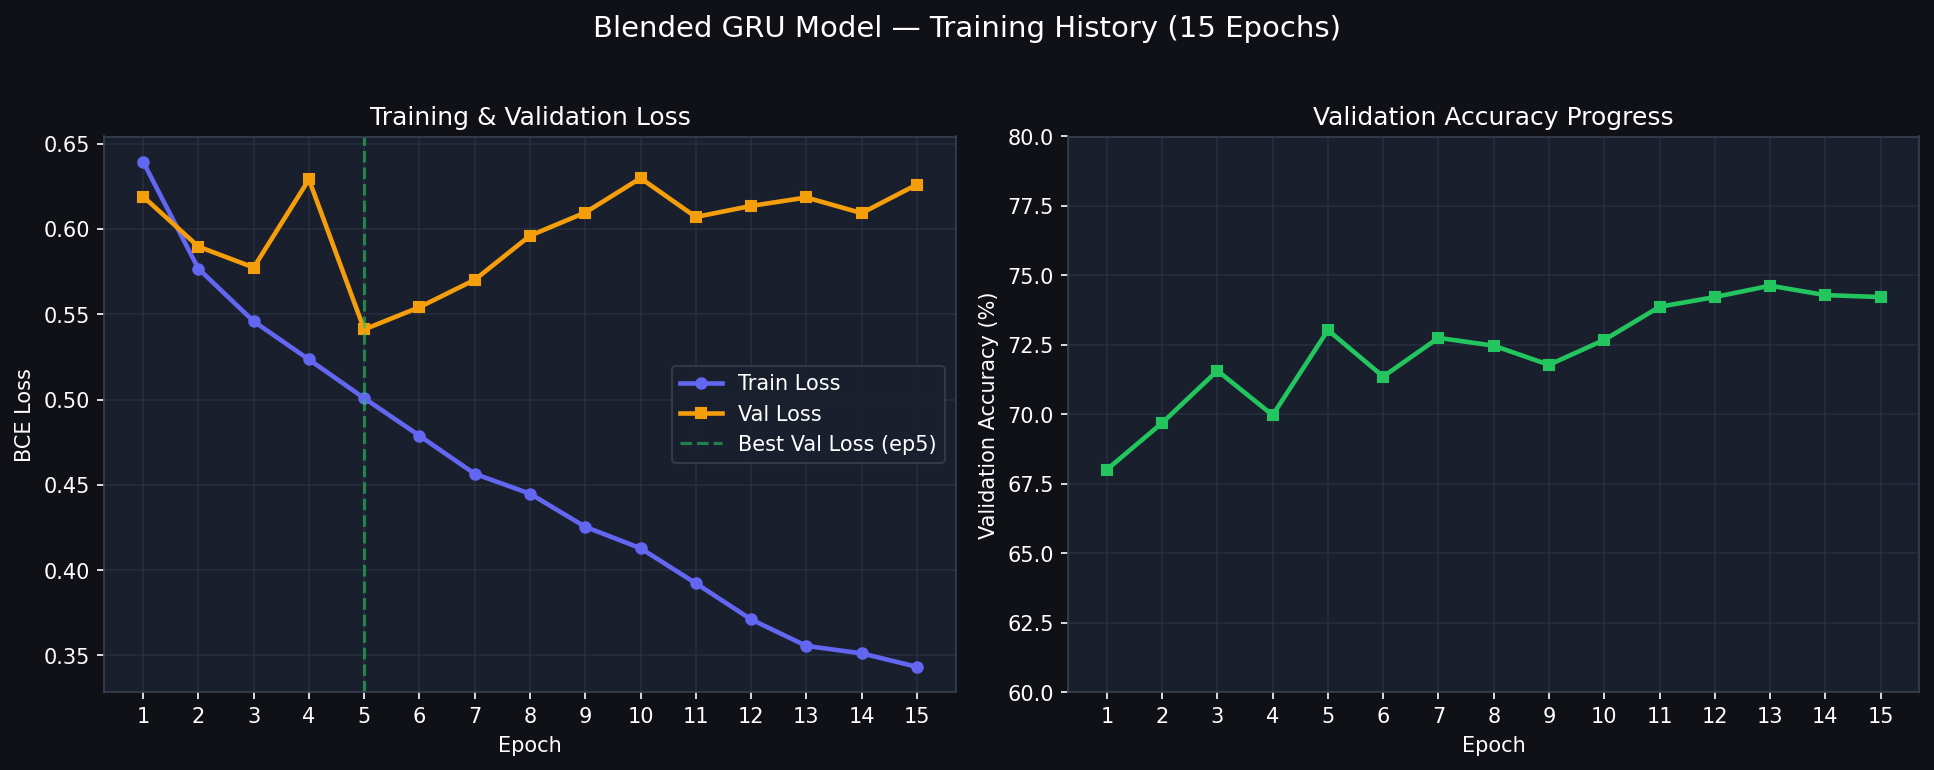
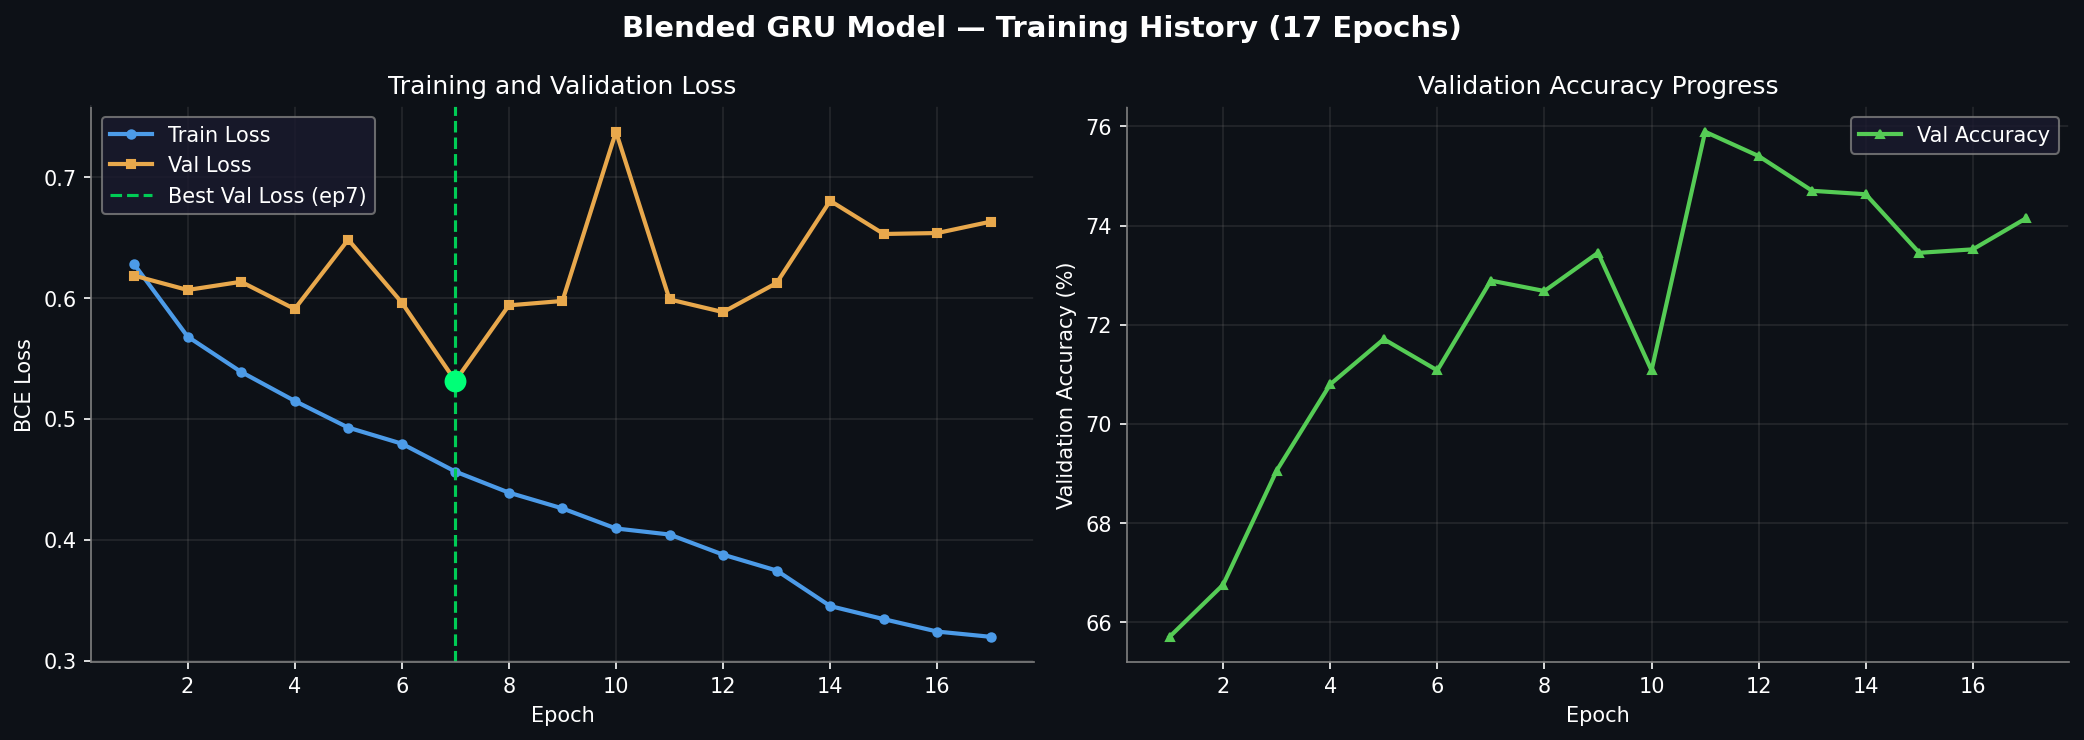
revision rapor.md

diff --git a/docs/rapor.md b/docs/rapor.md
@@ -231,14 +231,11 @@ Output     Linear(32→1) + Sigmoid  →  P(Violence) ∈ [0,1]
 
 **Gözlemler:**
 
-- Eğitim 15 epoch'ta tamamlandı (Early stopping patience=10 ile tetiklendi)
-- En iyi val_loss → **Epoch 5** (val_loss=0.541)
-- Epoch 5'ten sonra val_loss artarken train_loss düşmeye devam etti → **Overfitting başladı**
-- LR, Epoch 12'de 1e-3'ten 5e-4'e indi (ReduceLROnPlateau devreye girdi)
-- Validasyon accuracy'si en yüksek **~74.6%**'ya ulaştı
-
-> [!NOTE]
-> Bu log, blended (RLVS+RWF-2000) model öncesi eğitime aittir. Final model detayları için §5.3'e bakın.
+- Eğitim 17 epoch'ta tamamlandı (Early stopping patience=10 ile tetiklendi)
+- En iyi val_loss → **Epoch 7** (val_loss=0.5314)
+- Epoch 7'den sonra val_loss artarken train_loss düşmeye devam etti → **Overfitting başladı**
+- LR, Epoch 14'te 1e-3'ten 5e-4'e indi (ReduceLROnPlateau patience=5 devreye girdi)
+- Validasyon accuracy'si en yüksek **~76%**'ya ulaştı (Epoch 11)
 
 ### 5.3 Final Blended Model Eğitimi
 
